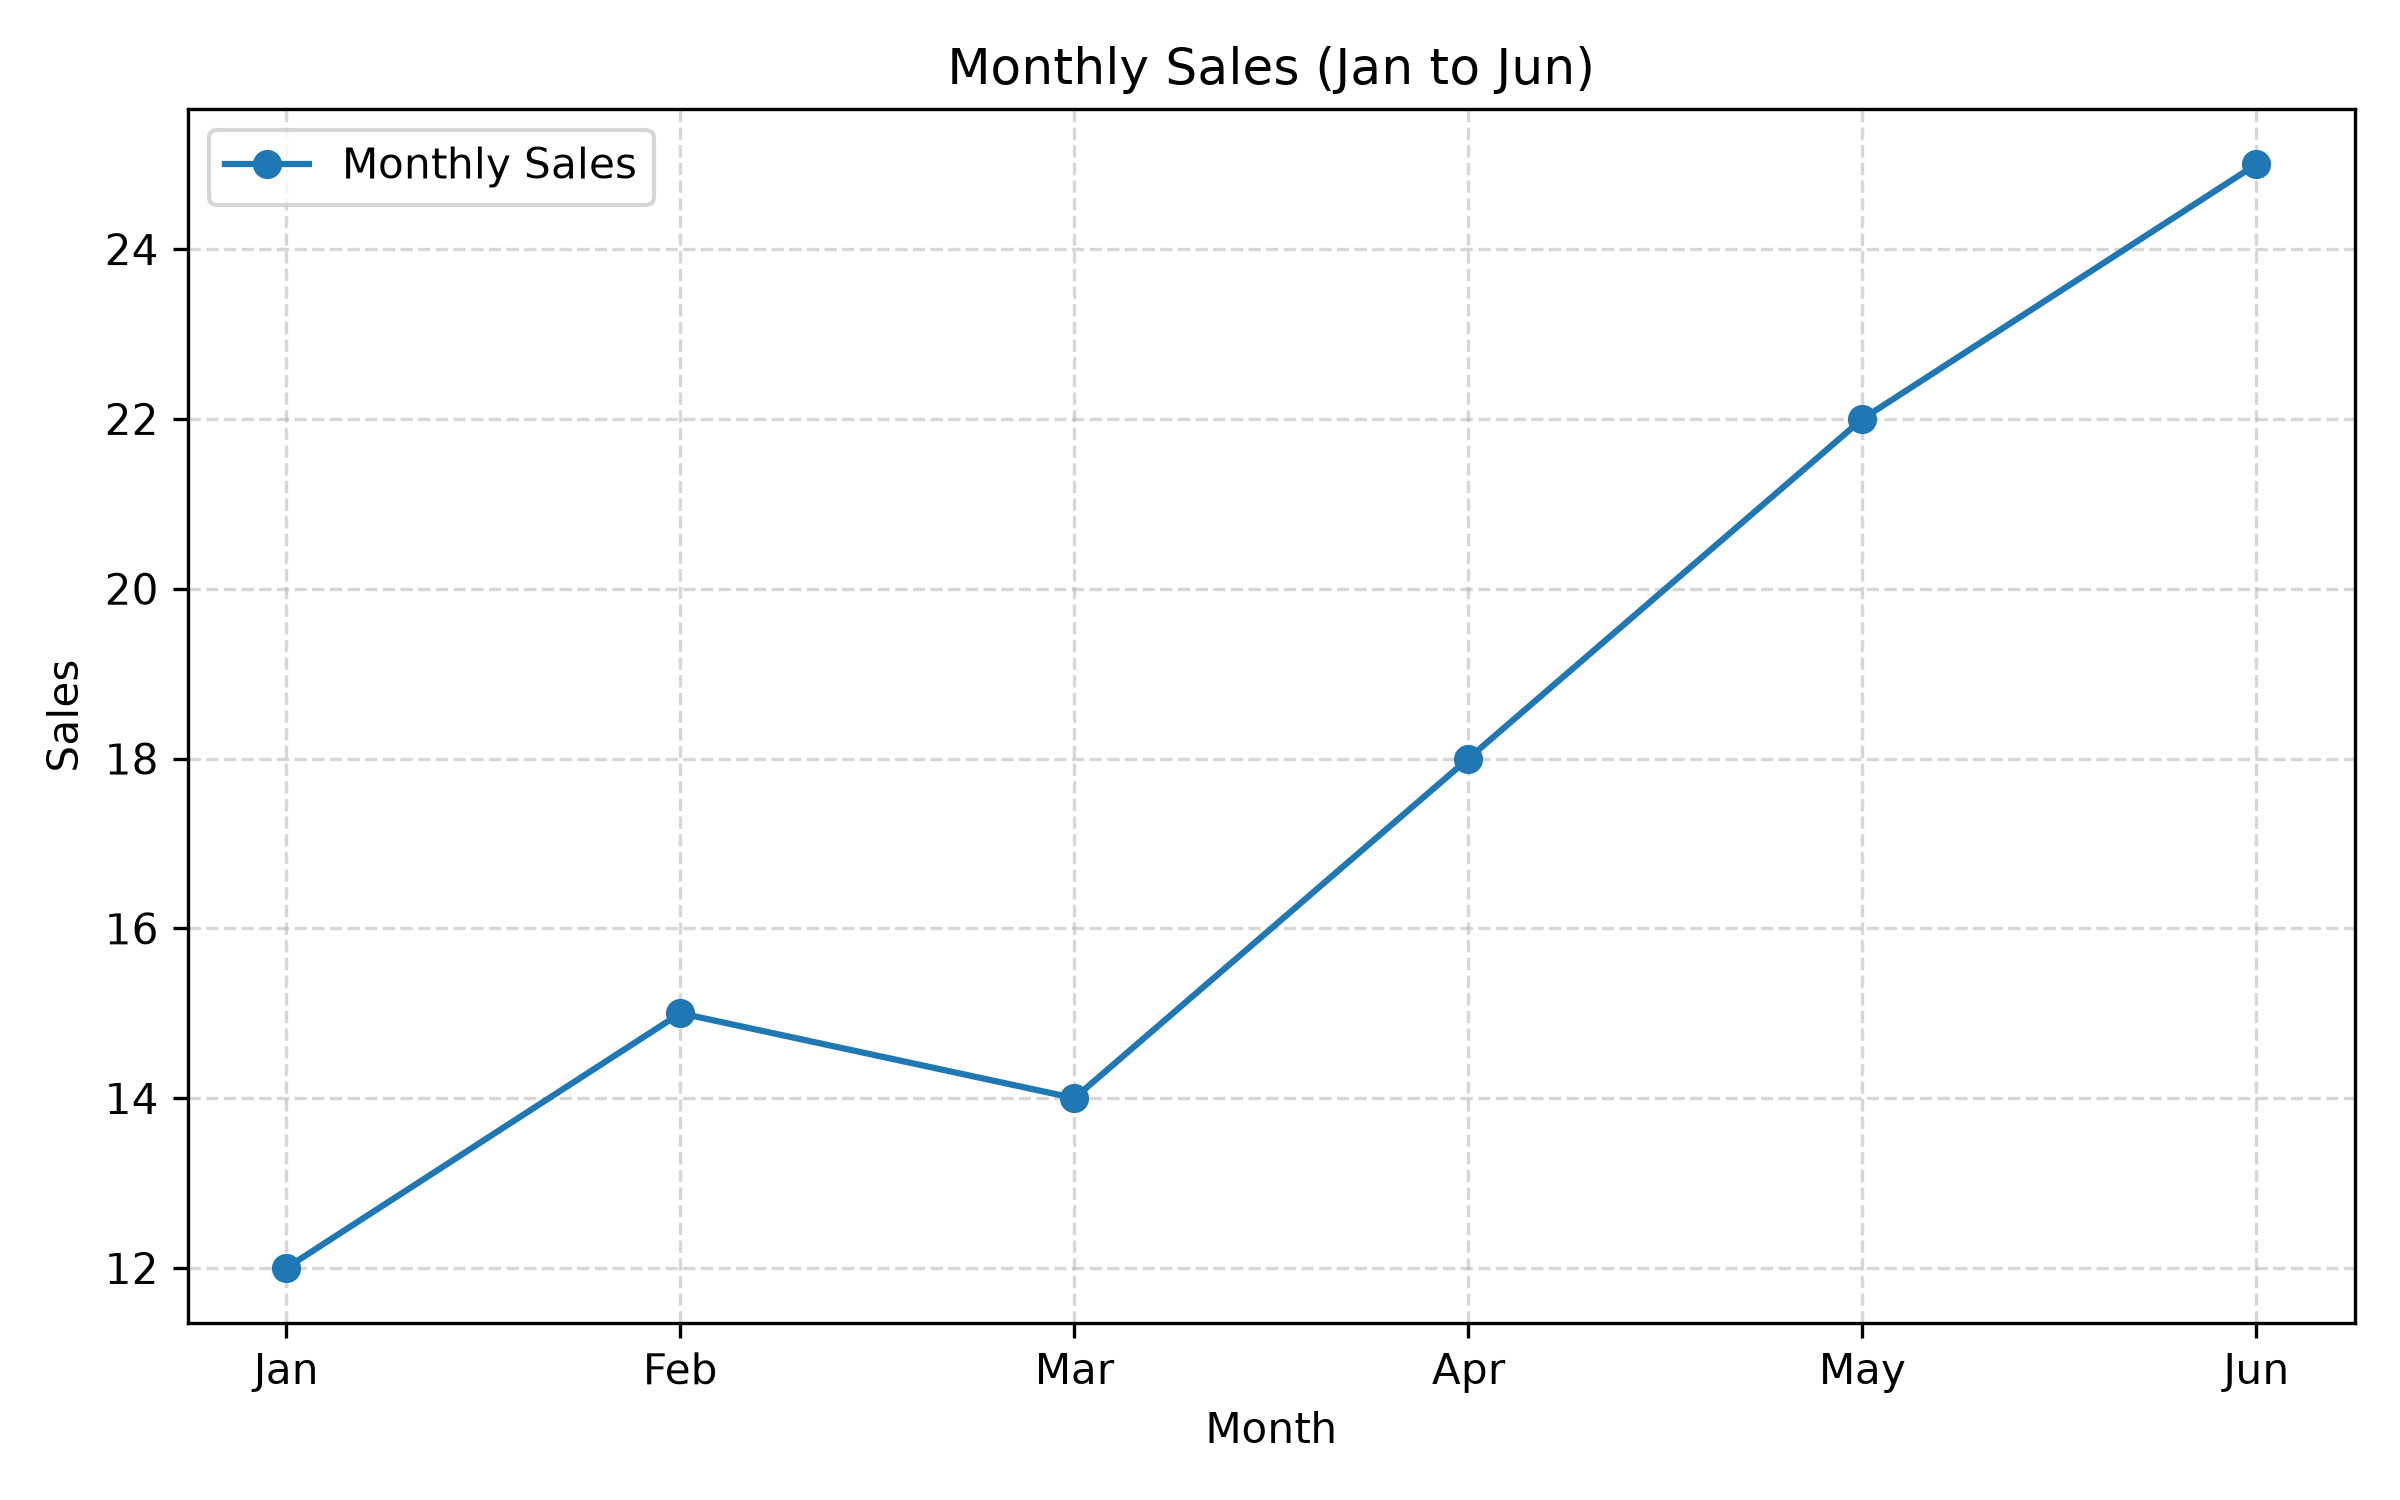
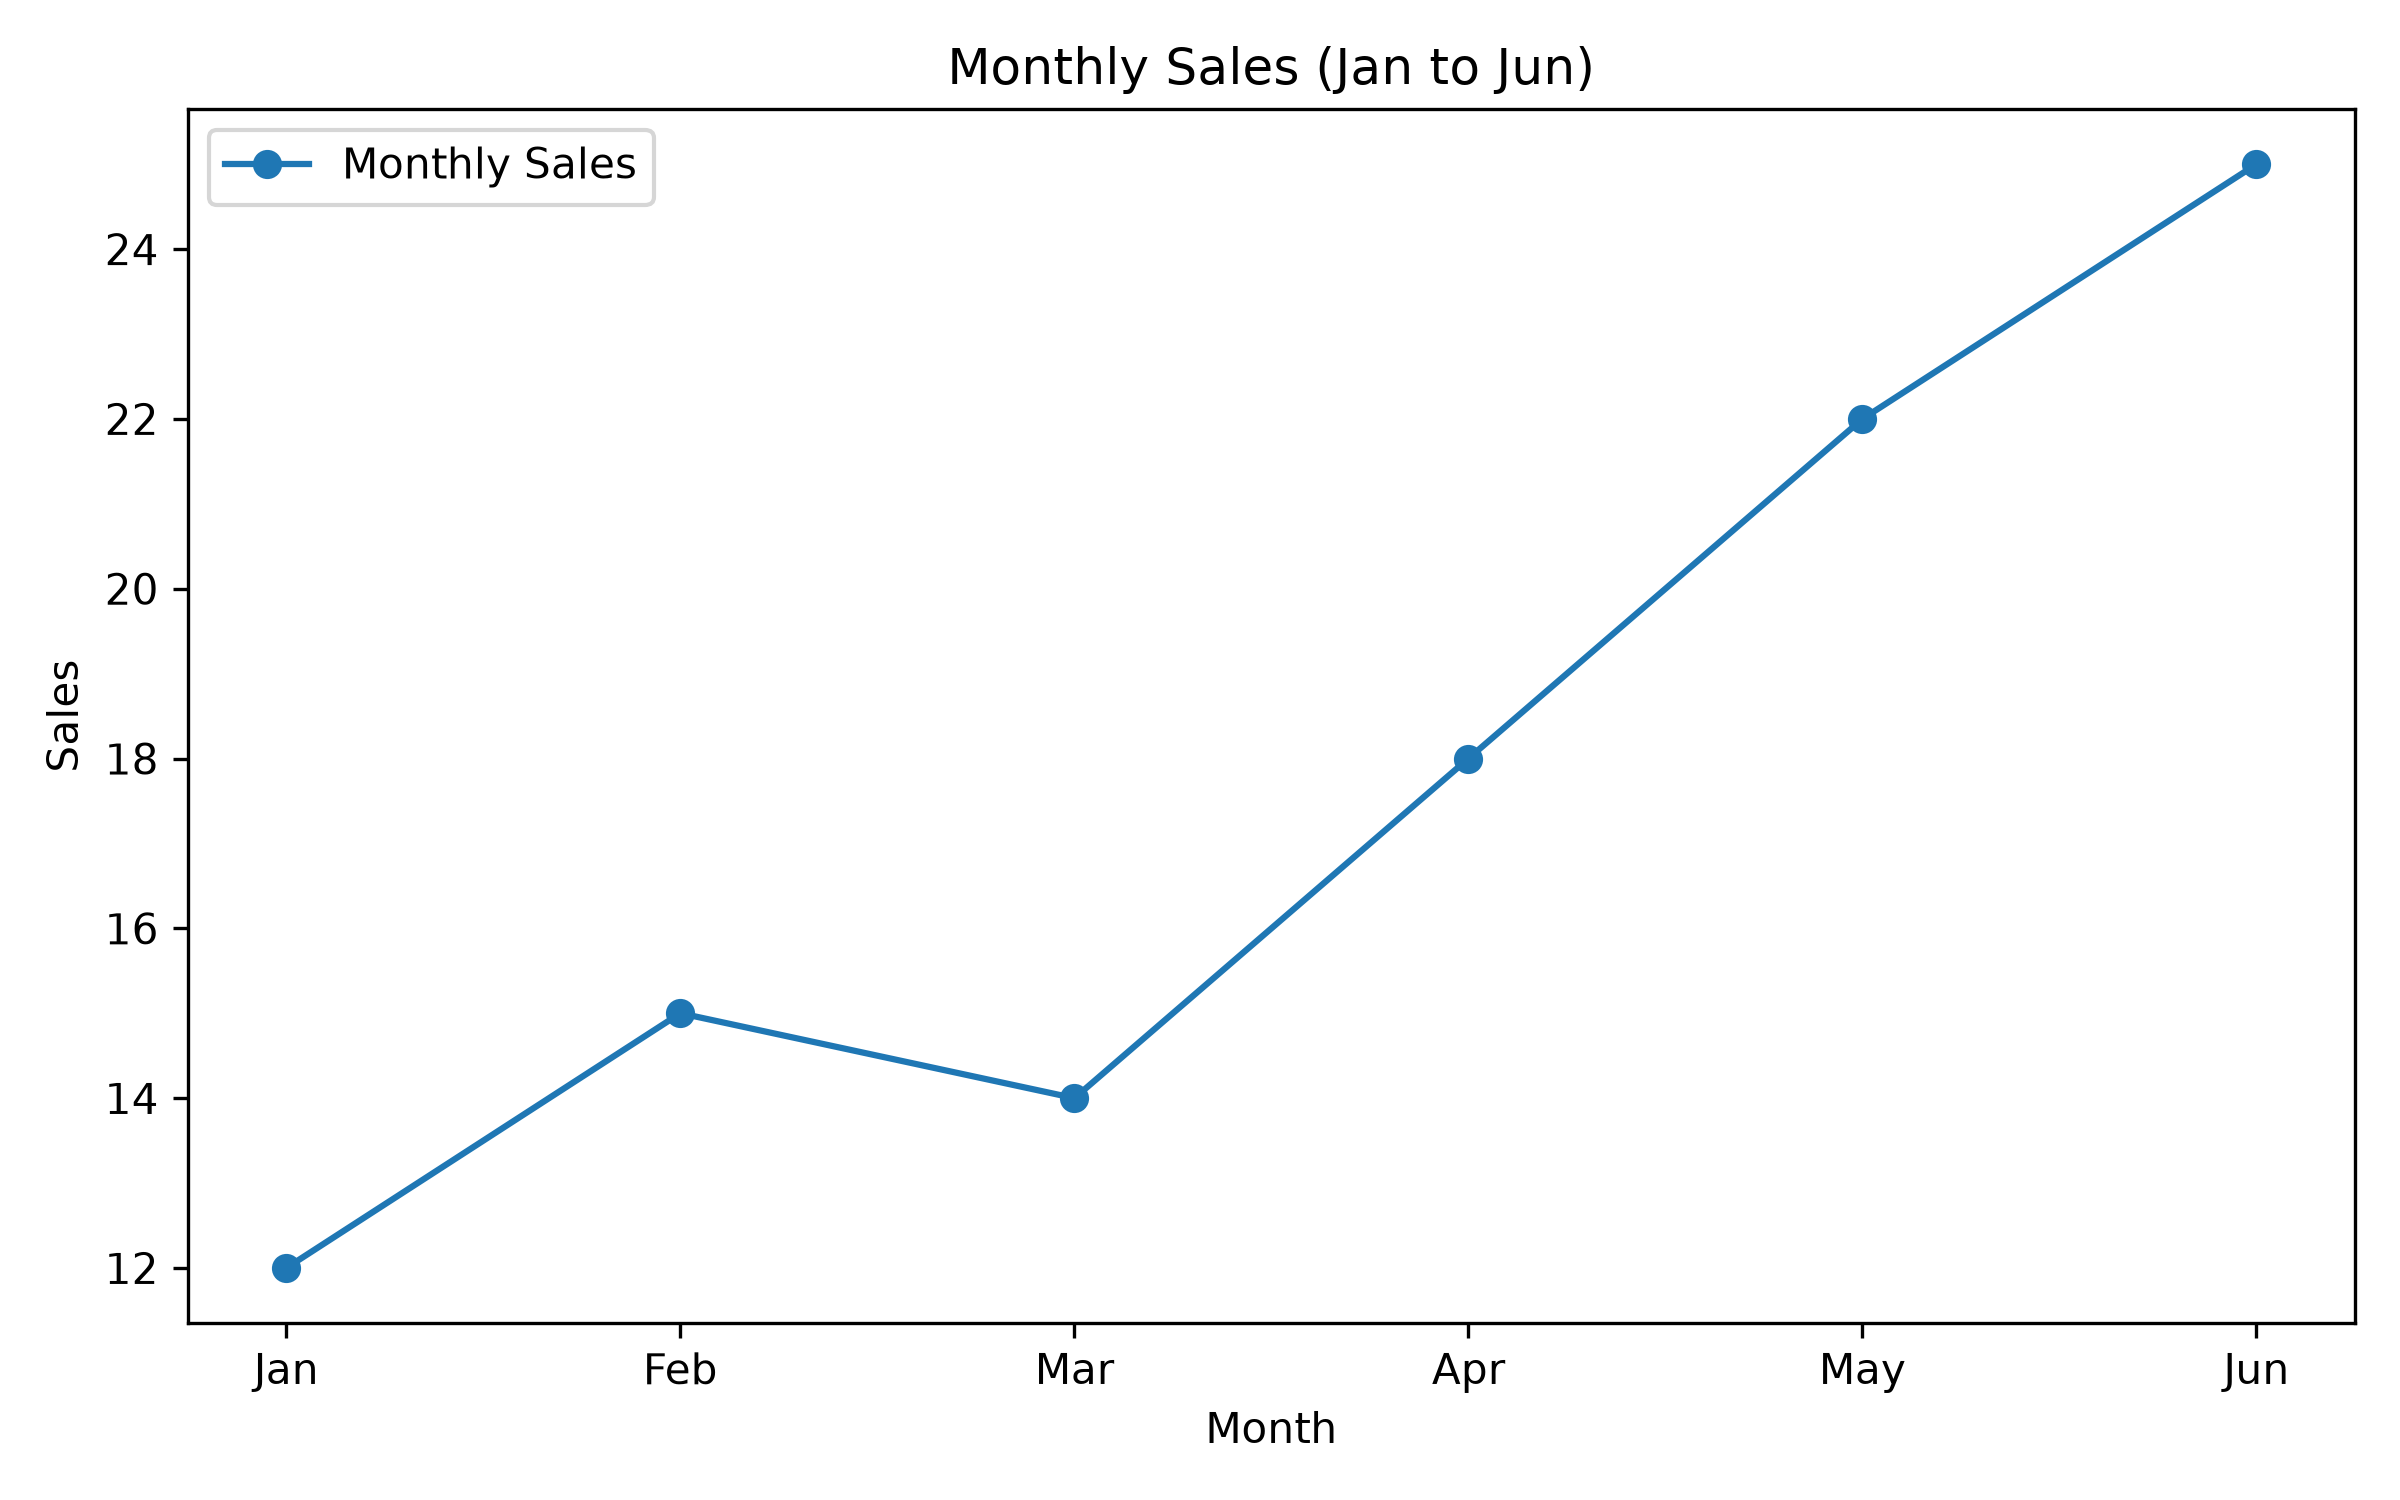
Resolve README merge conflict

diff --git a/task9.py b/task9.py
@@ -80,10 +80,10 @@ plt.title("Monthly Sales (Jan to Jun)")
 plt.xlabel("Month")
 plt.ylabel("Sales")
 plt.legend()
-plt.grid(True, linestyle="--", alpha=0.5)
+
 
 plt.tight_layout()
 plt.savefig(output_folder / "4_line_chart.png", dpi=300)
 plt.close()
 
-print("All 4 charts saved successfully in the charts folder!")
+print("All charts are saved to the charts folder...!")
